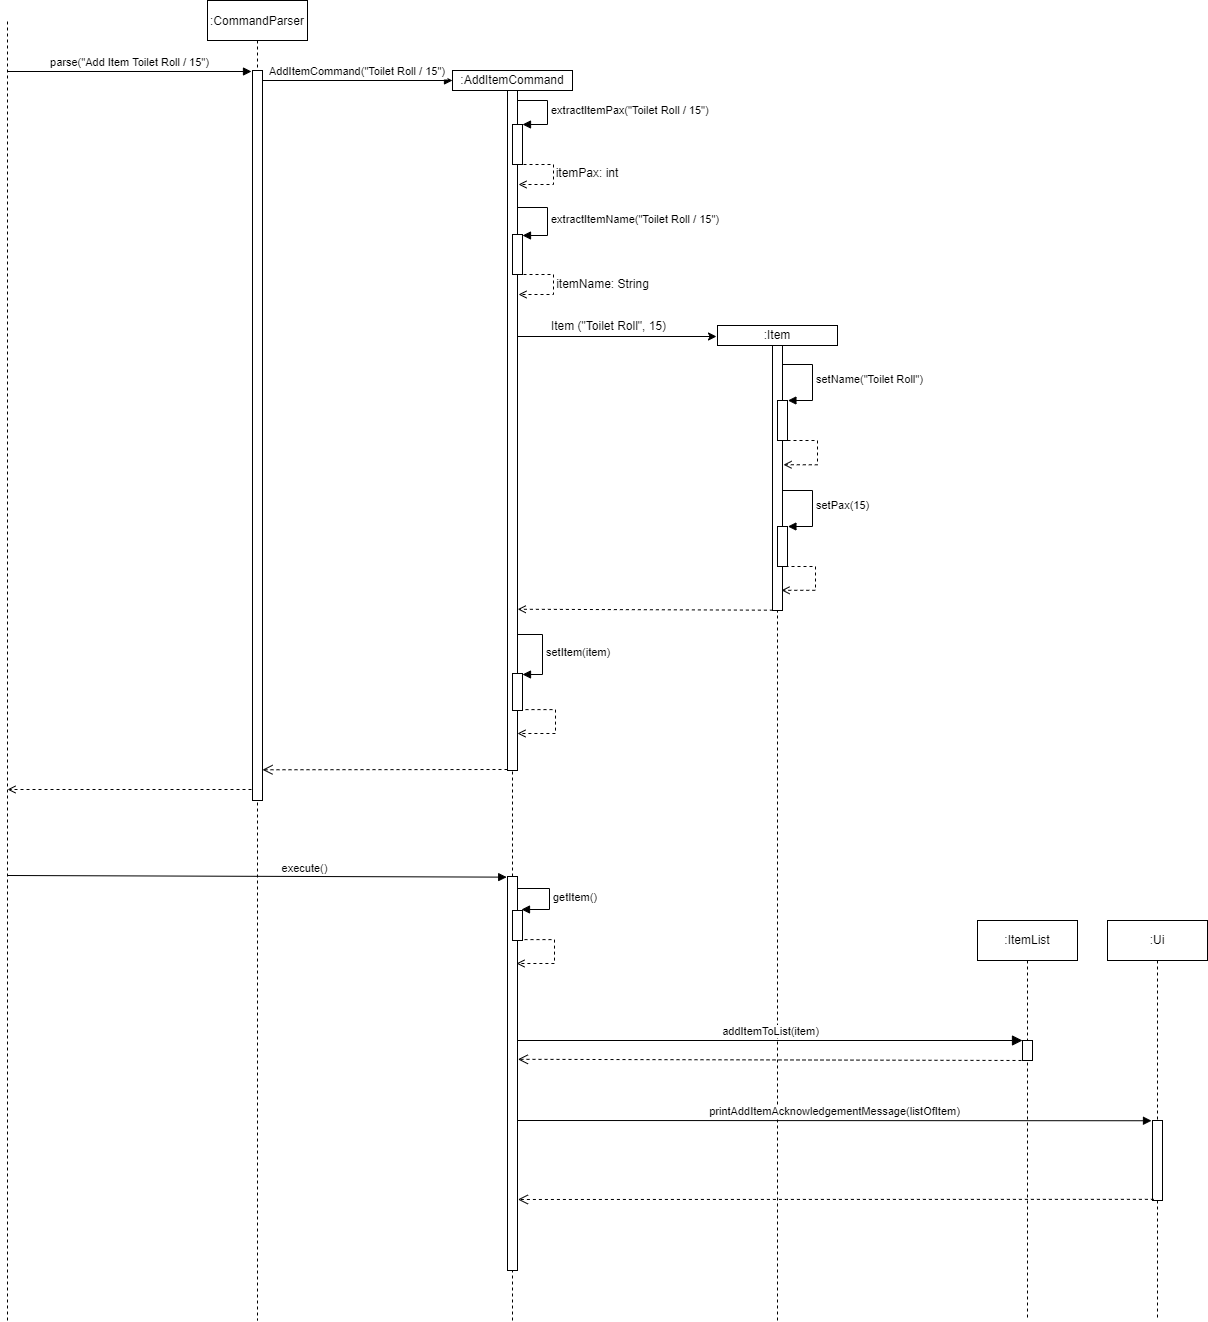
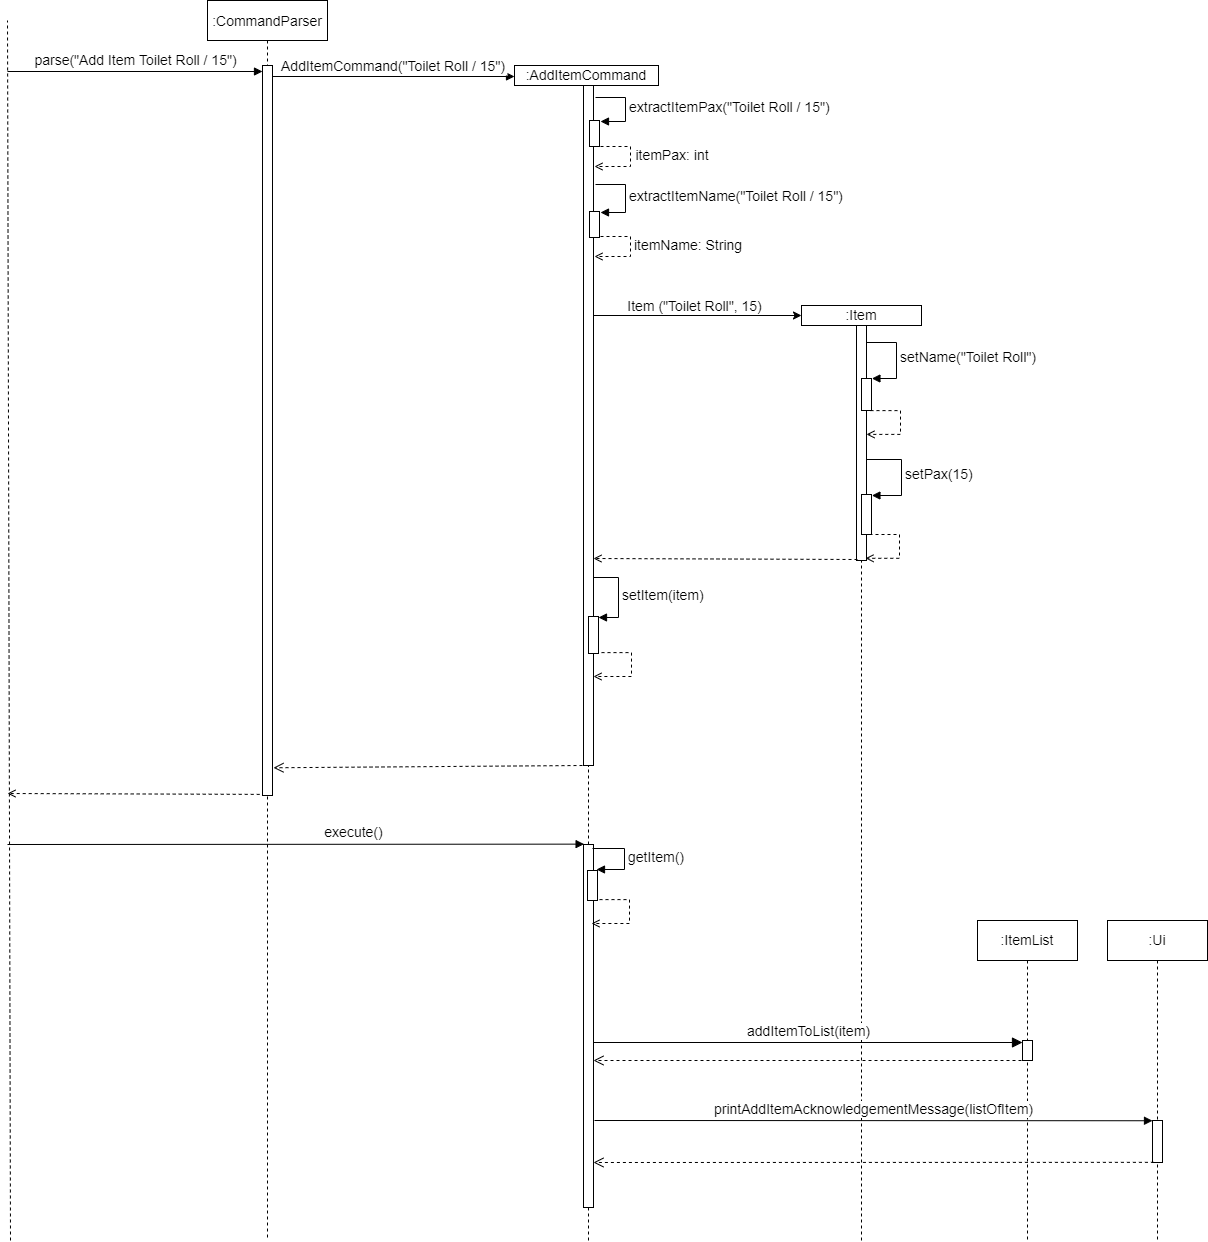
Update Developer Guide to fix errors.
Fixes #110

diff --git a/docs/DeveloperGuide.md b/docs/DeveloperGuide.md
@@ -20,17 +20,21 @@ Below is an example showing the usage of `AddHousekeeperCommand`.
 3. The execute method in `AddHousekeeperCommand` will be performed. It first checks with the housekeeperList if the name of the housekeeper to be added has been recorded into the list. If it has not been recorded, housekeeperList would then add this new user into the records. Ui will be called to print a confirmation to show that the housekeeper has been entered into the list.
 5. If housekeeper exist, the housekeeper profile would not be added into the list.
 
-#### Add Item Command
+### Add Item Command
 The objective of the AddItemCommand is to allow the user to add a new item to the list of items found within the inventory. It takes in the user input and spilt it up into two parts which are the name of the item to be added and its pax. These two information would then be used to create an Item Object and the Item Object would be saved into a list of items.
 
 Below is the partial class diagram detailing the design of the Add Item Command Class as well as its interactions with the various other classes required to execute the Add Item Command.
 ![alt text](team/SiewYangZhi_addItemCommand/AddItemCommandClassDiagram.png)
-- Step 1: When the user enters the command `Add Item Toilet Roll / 15`, the `Duke` class would pass the user input to the `Command Parser` Class.
-- Step 2: The `Command Parser` Class would run the `parse` method and create an `AddItemCommand` object containing and `Item` object which is made up of the name of the item to add as well as its pax which are found within the user input.
-- Step 3: The `AddItemCommand` class would be passed back to the `Duke` class.
-- Step 4: The `execute` method of the `AddItemCommand` class would be run and the the `ItemList` Object would be called and the `AddItemCommand` object would pass its Item object to the `ItemList` Object's `addItemToList` method.
-- Step 5: The addItemToList method would then add the `Item` object to its ArrayList of `Items` called listOfItems.
-- Step 6: The `AddItemCommand` then call the `UI` and execute the `UI`'s `printAddItemAcknowledgementMessage` method which would print an acknowledgement message to the user informing him that the item has been added into the item list.
+Step 1: When the user enters the command `Add Item Toilet Roll / 15`, the `Duke` class would pass the user input to the `Command Parser` Class.
+
+Step 2: The `Command Parser` Class would run the `parse` method and create an `AddItemCommand` object containing an `Item` object which is made up of the name of the item to add as well as its pax which are found within the user input.
+
+Step 3: The `AddItemCommand` class would be passed back to the `Duke` class.
+
+Step 4: The `execute` method of the `AddItemCommand` class would be run and the the `ItemList` Object would be called and the `AddItemCommand` object would pass its Item object to the `ItemList` Object's `addItemToList` method.
+
+Step 5: The addItemToList method would then add the `Item` object to its ArrayList of `Item` objects called listOfItems.
+Step 6: The `AddItemCommand` then call the `UI` and execute the `UI`'s `printAddItemAcknowledgementMessage` method which would print an acknowledgement message to the user informing him that the item has been added into the item list.
 
 ## Implementation
 
@@ -158,23 +162,30 @@ Step 5: The execute method will derive the housekeeper name, `susan` which would
 
 ![class](team/falicia_addHousekeeperCommand/sequenceAddHousekeeperCommandv2.jpg)
 
-#### Add Item Command
+### Add Item Command
 The add item to a list of items in the invetory mechanism is facilated by 'AddItemCommand'. It extends 'Command' and implements the following operations:
 - `AddItemCommand#extractItemName` - Extracts the name of the item to add from the user input.
 - `AddItemCommand#extractPax` - Extracts the pax of the item to add from the user input.
-- `AddItemCommand#execute` - Adds the item into the list of items.
+- `AddItemCommand#setItem` - Saves the item to the AddItemCommand object.
 - `AddItemCommand#getItem` - Extracts the item saved within the AddItemCommand object.
+- `AddItemCommand#execute` - Adds the item into the list of items.
 
 ![alt text](team/SiewYangZhi_addItemCommand/AddItemCommandSequenceDiagram.png)
 The sequence diagram above showcases an example usage scenario of the Add Item Command and how the Add Item mechanisms behaves at each step:
-- Step 1: The user executes the `Add Item Toilet Roll / 15` command to add a new item which is `Toilet Roll` that has a pax of `15` into the inventory. `CommandParser#parse` is called and the user input `Add Item Toilet Roll /15` is passed to it.
-- Step 2: `CommandParser#parse` would identify the user input as an Add Item Command by searching for the keyword `Add Item` within the user input. It would then remove `Add Item` from the user input causing the user input to be just `Toilet Roll / 15`. `CommandParser#parse` would then call the constructor of `AddItemCommand` and pass it `Toilet Roll / 15`.
-- Step 3: The constructor of `AddItemCommand` would call `AddItemCommand#extractItemName` and `AddItemCommand#extractPax` respectively to extract out `Toilet Roll` and `15`. The constructor of `AddItemCommand` would then call the constructor of `Item` which would create an `Item` object containing `Toilet Roll` and `15`. The `Item` object would then be returned to the constructor of `AddItemCommand`.  An `AddItemCommand` object with the `Item` object would be created and passed back to `CommandParser#parse`.
-- Step 4: `CommandParser#parse` would then call `AddItemCommand#execute` which would call `AddItemCommand#getItem` to extract out the item currently saved within the `AddItemCommand` object.
-- Step 5: `AddItemCommand#execute` would then call `ItemList#addItemToList` and pass it the item object.This results in the `Item` object being added into the `ItemList`.
-- Step 6: `AddItemCommand#execute` would then call `Ui#printAddItemAcknowledgementMessage` which would print out an acknowledgement message informing the user that the item has been succesfully added into the item list.
-### check room information by level
 
+Step 1: The user enters the `Add Item Toilet Roll / 15` command to add a new item which is `Toilet Roll` that has a pax of `15` into the inventory. `CommandParser#parse` is called and the user input `Add Item Toilet Roll / 15` is passed to it.
+
+Step 2: `CommandParser#parse` would identify the user input as an Add Item Command by searching for the keyword `Add Item` within the user input. It would then remove `Add Item` from the user input causing the user input to be just `Toilet Roll / 15`. `CommandParser#parse` would then call the constructor of `AddItemCommand` and pass it `Toilet Roll / 15`.  
+
+Step 3:  An `AddItemCommand` object would be created. The constructor of `AddItemCommand` would call `AddItemCommand#extractItemPax` and `AddItemCommand#extractItemName` respectively to extract out `15` and `Toilet Roll`. The constructor of `AddItemCommand` would then call the constructor of `Item` which would create an `Item` object containing `Toilet Roll` and `15`. The `Item` object would then be returned to the constructor of `AddItemCommand`. The `Item` object would be saved to the `AddItemCommand` object using `AddItemCommand#setItem`. The `AddItemCommand` object would be passed back to `CommandParser#parse`.   
+
+Step 4: `CommandParser#parse` would then call `AddItemCommand#execute` which would call `AddItemCommand#getItem` to extract out the item currently saved within the `AddItemCommand` object.  
+
+Step 5: `AddItemCommand#execute` would then call `ItemList#addItemToList` and pass it the item object.This results in the `Item` object being added into the `ItemList`.
+
+Step 6: `AddItemCommand#execute` would then call `Ui#printAddItemAcknowledgementMessage` which would print out an acknowledgement message informing the user that the item has been succesfully added into the item list.
+
+### check room information by level
 
 The checking room information by level mechanism is facilitated `CheckRoomByLevelCommand`. It extends command. Additionally, it implements the following operations:
 * `CheckRoomByLevelCommand#isValidLevel(int level, RoomList roomList)` - Checks if the level number is valid
